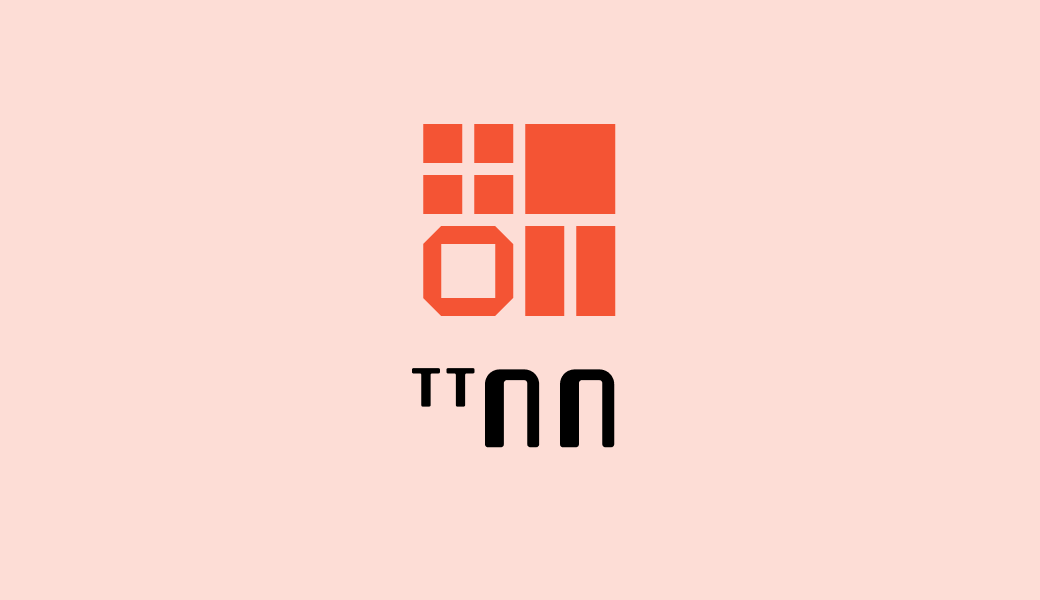
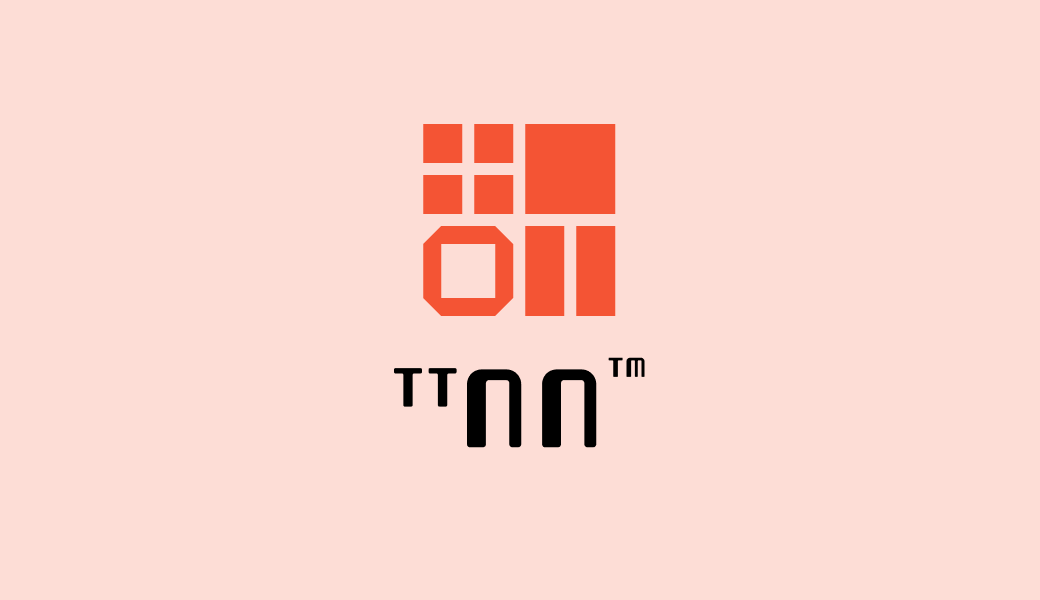
Merge pull request #152 from tenstorrent/update-tt-nn-thumbnail-with-tm
Update TT-NN thumbnail with TM and align alt text

Pull request: Update TT-NN thumbnail with TM and align alt text
## Summary
- Replaces [core/_static/assets/home/tt-nn.png](core/_static/assets/home/tt-nn.png) with a version that includes the TM symbol on the wordmark.
- Updates the image alt text in [core/_templates/home.html](core/_templates/home.html) from `TT-NN` to `TT-NN™` so it matches both the new icon and the existing `<h4>TT-NN™</h4>` label. Aligns with the TT-Metalium™ pattern (alt + label + icon all carry ™).

## Test plan
- [ ] Verify the TT-NN card on the homepage renders the new thumbnail with the ™ visible
- [ ] Confirm screen readers / hover tooltips read "TT-NN™"

Changed region(s): [[0.3692, 0.57, 0.6462, 0.75]]

diff --git a/core/_templates/home.html b/core/_templates/home.html
@@ -276,7 +276,7 @@
           href="https://docs.tenstorrent.com/tt-metal/latest/ttnn/index.html"
           class="card small-card"
         >
-          <img src="_static/home/tt-nn.png" alt="TT-NN" />
+          <img src="_static/home/tt-nn.png" alt="TT-NN™" />
           <h4>TT-NN™</h4>
         </a>
         <a